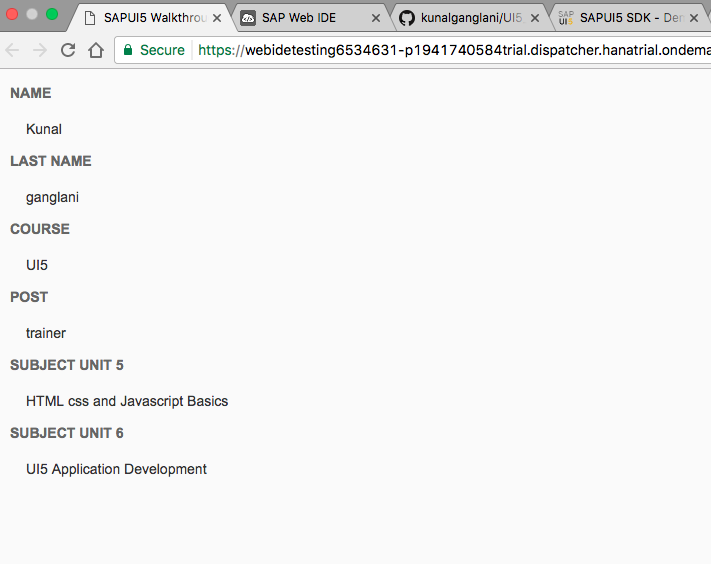
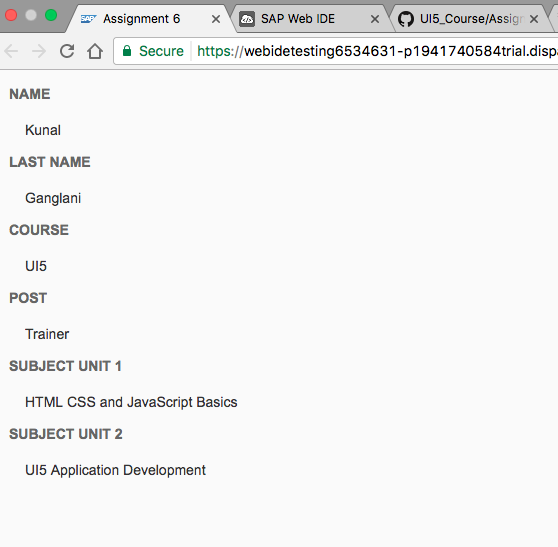
Assignment 6

diff --git a/Solutions/Assignment_6/webapp/controller/App.controller.js b/Solutions/Assignment_6/webapp/controller/App.controller.js
@@ -13,22 +13,18 @@ sap.ui.define([
 			var oData = {
 				intro : {
 					name : "Kunal",
-					lastname: "ganglani",
+					lastname: "Ganglani",
 					course: "UI5",
-					post: "trainer"
+					post: "Trainer"
 				},
 				subjects: {
-					part1: "HTML css and Javascript Basics",
+					part1: "HTML CSS and JavaScript Basics",
 					part2: "UI5 Application Development"
 				}
 			};
 			var oModel = new JSONModel(oData);
 			this.getView().setModel(oModel);//this data is accessible to the view now. 
-		},
- 
-		onShowHello : function () {
-			MessageToast.show("Hello World");
 		}
-	});
+		});
  
 });

diff --git a/Solutions/Assignment_6/webapp/index.html b/Solutions/Assignment_6/webapp/index.html
@@ -3,7 +3,7 @@
 <head>
 	<meta http-equiv="X-UA-Compatible" content="IE=edge">
 	<meta charset="utf-8">
-	<title>SAPUI5 Walkthrough</title>
+	<title>Assignment 6</title>
 	<script
 		id="sap-ui-bootstrap"
 		src="https://openui5.hana.ondemand.com/resources/sap-ui-core.js"
